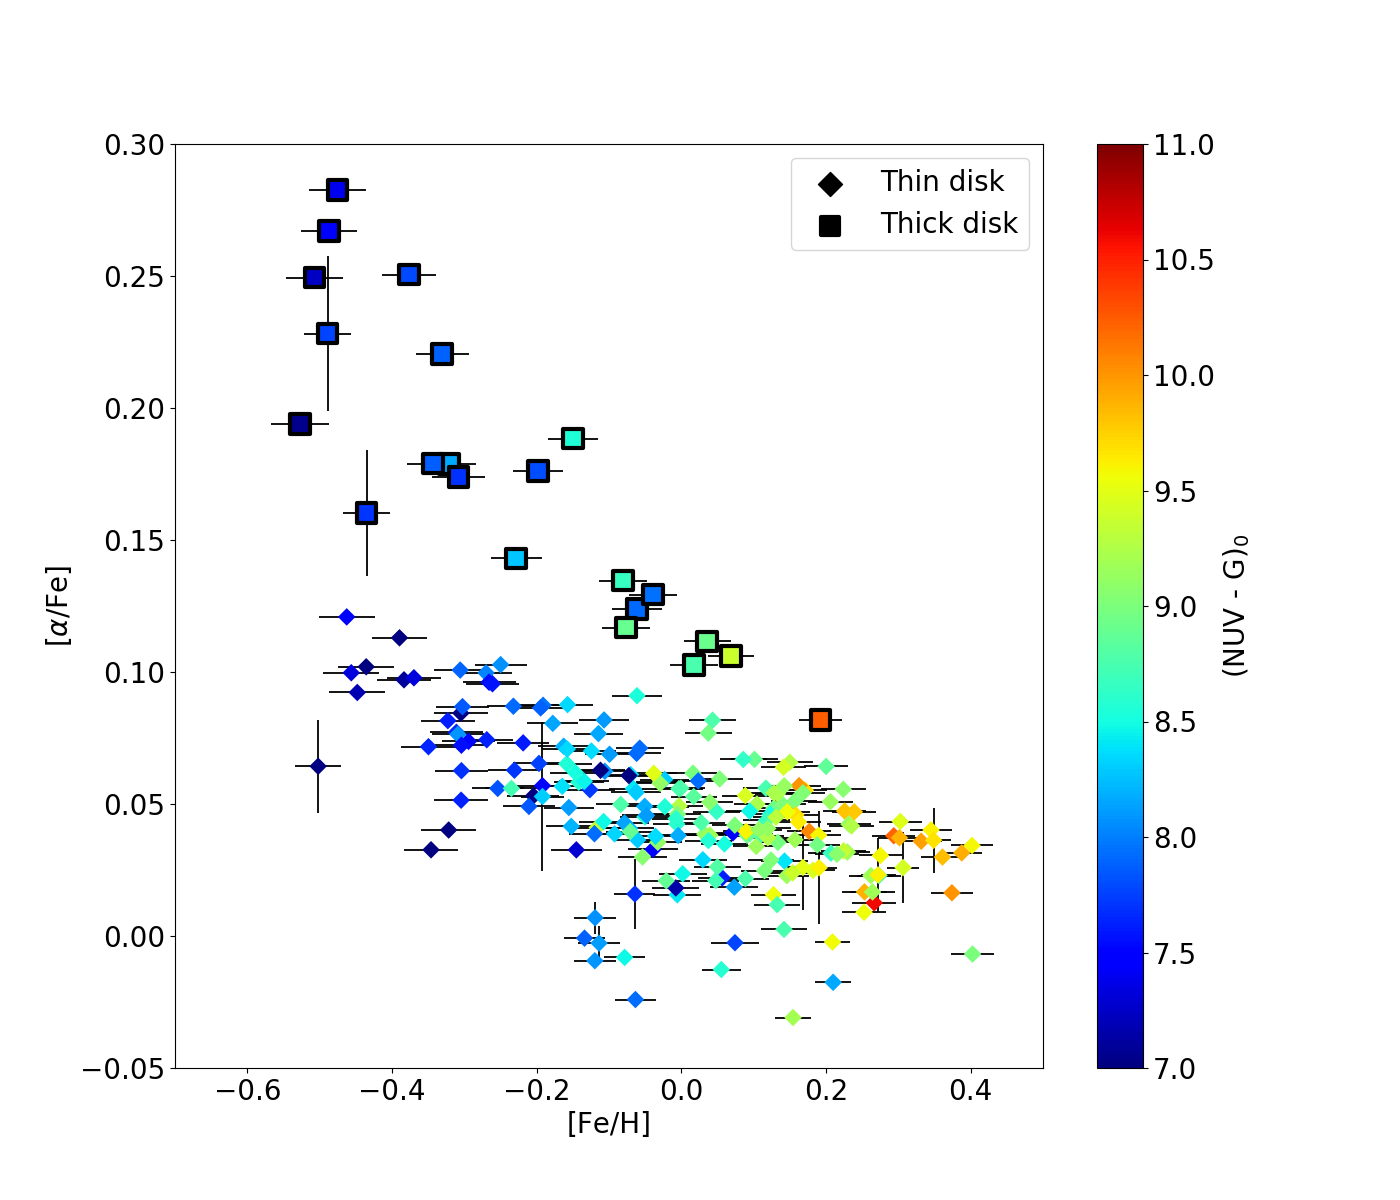
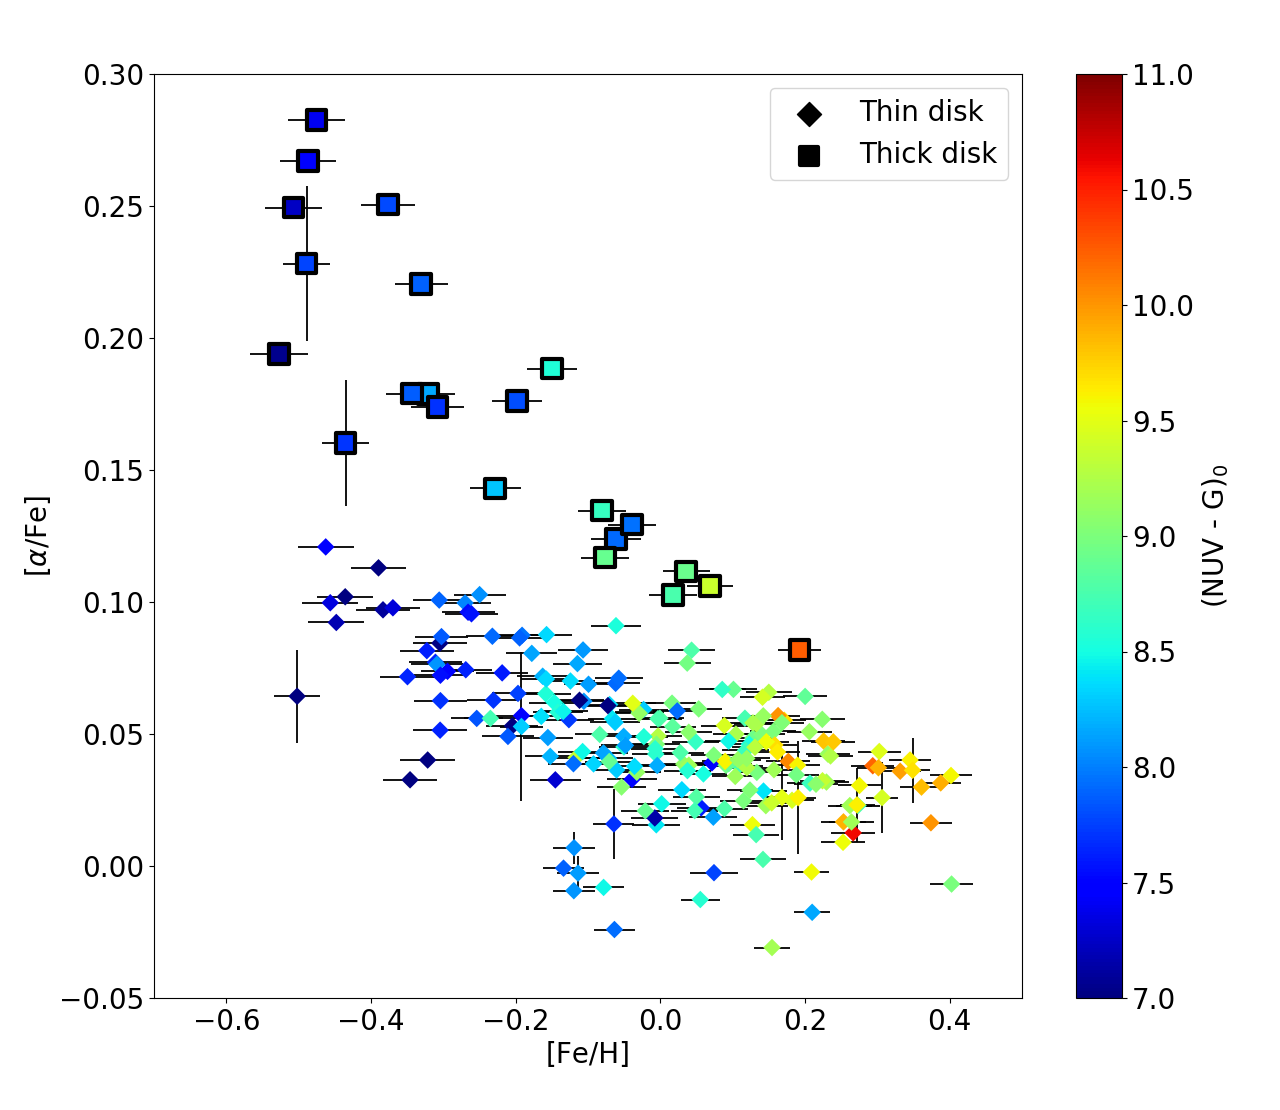
fixed table edits

diff --git a/pipeline/misc.py b/pipeline/misc.py
@@ -1811,12 +1811,20 @@ m = (0.095-.21)/(0+0.8)
 b = 0.095
 thick,= np.where((rc['ALPHAFE'] > 0.08) & (rc['ALPHAFE'] > (m*rc['FE_H'] + b)))
 thin,= np.where((rc['ALPHAFE'] < 0.08) | (rc['ALPHAFE'] < (m*rc['FE_H'] + b)))
-
 color = ((rc['nuv_mag']-rc['ebv']*7.24)-(rc['phot_g_mean_mag']-rc['ebv']*3.303))
 
-plt.scatter(rc['FE_H'][thin], rc['ALPHAFE'][thin], s=80, edgecolor='none', c=color[thin], label='Thin disk', vmin=7, vmax=11, marker='D')
+afe_apo = np.where(rc['ALPHA_M'] > 0)
+rc['ALPHAFE'][afe_apo] = (rc['ALPHA_M'] + rc['M_H'] - rc['FE_H'])[afe_apo]
+alphafe = rc['ALPHAFE']
 
-plt.scatter(rc['FE_H'][thick], rc['ALPHAFE'][thick], c=color[thick], s=200, marker='s', label='Thick disk', vmin=7, vmax=11, edgecolor='black', linewidth=3)
+# for now use this. err is only for apo
+afeerr = np.zeros(len(rc))
+afeerr[afe_apo] = (alphafe * np.sqrt((rc['ALPHA_M_err']/rc['ALPHA_M'])**2 + (rc['M_H_err']/rc['M_H'])**2 + (rc['FE_H_err']/rc['FE_H'])**2))[afe_apo]
+
+
+plt.scatter(rc['FE_H'][thin], rc['ALPHAFE'][thin], s=80, edgecolor='none', c=color[thin], label='Thin disk', vmin=7, vmax=11, marker='D', cmap=cm.jet)
+
+plt.scatter(rc['FE_H'][thick], rc['ALPHAFE'][thick], c=color[thick], s=200, marker='s', label='Thick disk', vmin=7, vmax=11, edgecolor='black', linewidth=3, cmap=cm.jet)
 
 plt.errorbar(rc['FE_H'], rc['ALPHAFE'], xerr=(rc['FE_H_err']), yerr=afeerr, ecolor='black', fmt=None, marker=None, mew=0, elinewidth=1.3, **{"zorder":0})
 
@@ -2217,28 +2225,46 @@ nuvgerr = np.sqrt(rc['nuv_magerr']**2-rc['Gerr']**2)
 B = rc['B_apass'] - rc['ebv']*3.626
 bv = (rc['B_apass']-rc['ebv']*3.626)-(rc['v_apass']-rc['ebv']*2.742)
 Berr = rc['Berr_apass']
-
 bverr = np.sqrt(rc['Berr_apass']**2 - rc['Verr_apass']**2)
 bverr[np.isnan(bverr)] = Berr[np.isnan(bverr)]
-
 ebv = rc['ebv']
 dm = rc['distmod']
-
 feh = rc['FE_H']
 feherr = rc['FE_H_err']
 teff = rc['TEFF']
 tefferr = rc['TEFF_err']
 
-#afe_apo = np.where(rc['ALPHA_M'] > 0)
-#rc['ALPHAFE'][afe_apo] = (rc['ALPHA_M'] + rc['M_H'] - rc['FE_H'])[afe_apo]
-#alphafe = rc['ALPHAFE']
+afe_apo = np.where(rc['ALPHA_M'] > 0)
+rc['ALPHAFE'][afe_apo] = (rc['ALPHA_M'] + rc['M_H'] - rc['FE_H'])[afe_apo]
+alphafe = rc['ALPHAFE']
 
 # for now use this. err is only for apo
 afeerr = np.zeros(len(rc))
 afeerr[afe_apo] = (alphafe * np.sqrt((rc['ALPHA_M_err']/rc['ALPHA_M'])**2 + (rc['M_H_err']/rc['M_H'])**2 + (rc['FE_H_err']/rc['FE_H'])**2))[afe_apo]
 
 
-table = Table([ra, dec, nuv, nuverr, nuvg, nuvgerr, B, Berr, bv, bverr, ebv, dm, feh, feherr, teff, tefferr, alphafe, afeerr])
+
+ra = ['{:.4f}'.format(x) for x in ra]
+dec = ['{:.4f}'.format(x) for x in dec]
+nuv = ['{:.2f}'.format(x) for x in nuv]
+nuverr = ['{:.2f}'.format(x) for x in nuverr]
+nuvg = ['{:.2f}'.format(x) for x in nuvg]
+nuvgerr = ['{:.2f}'.format(x) for x in nuvgerr]
+B = ['{:.2f}'.format(x) for x in B]
+bv = ['{:.2f}'.format(x) for x in bv]
+Berr = ['{:.2f}'.format(x) for x in Berr]
+bverr = ['{:.2f}'.format(x) for x in bverr]
+ebv = ['{:.2f}'.format(x) for x in ebv]
+dm = ['{:.2f}'.format(x) for x in dm]
+feh = ['{:.2f}'.format(x) for x in feh]
+feherr = ['{:.2f}'.format(x) for x in feherr]
+teff = ['{:.2f}'.format(x) for x in teff]
+alphafe = ['{:.2f}'.format(x) for x in alphafe]
+afeerr = ['{:.2f}'.format(x) for x in afeerr]
+
+
+
+table = Table([ra, dec, nuv, nuverr, nuvg, nuvgerr, B, Berr, bv, bverr, ebv, dm, feh, feherr, teff, alphafe, afeerr])
 
 t1 = table[:10]
 ascii.write(t1, format='latex')
